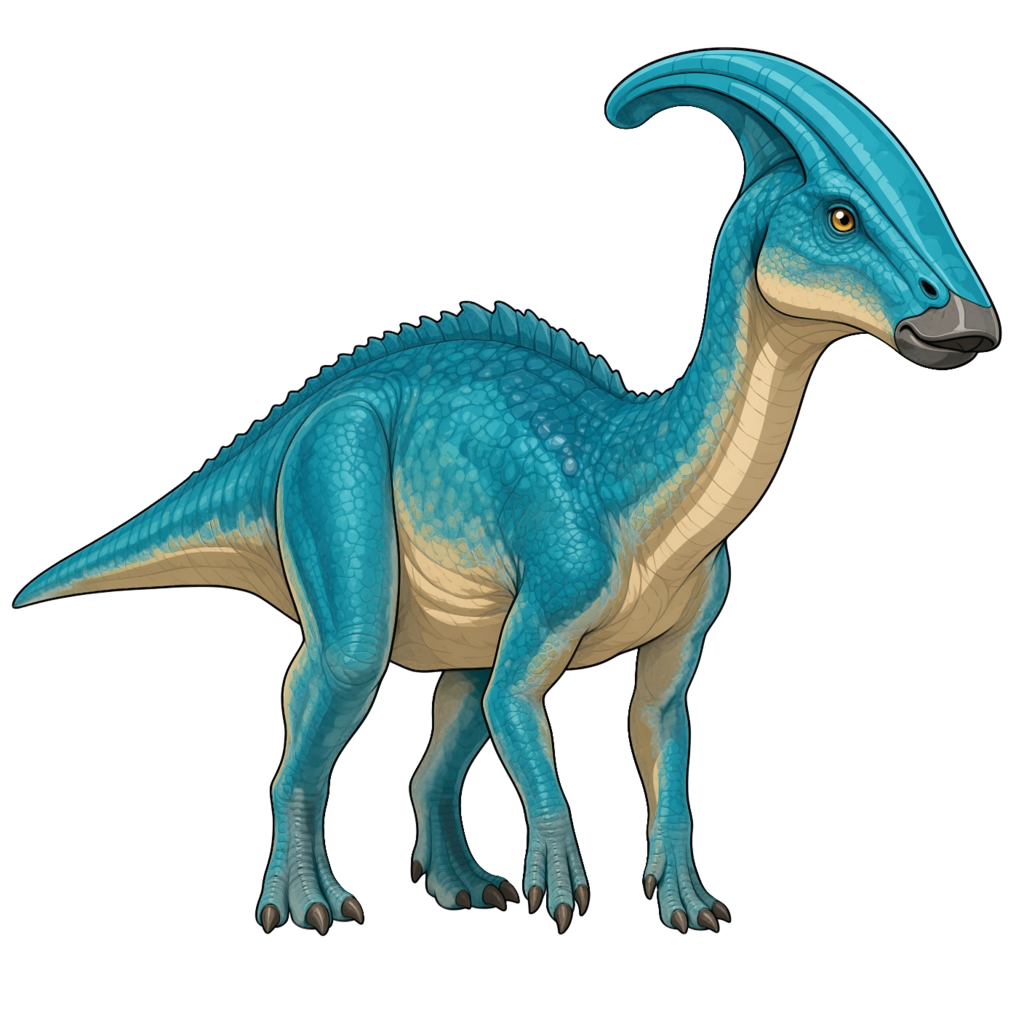
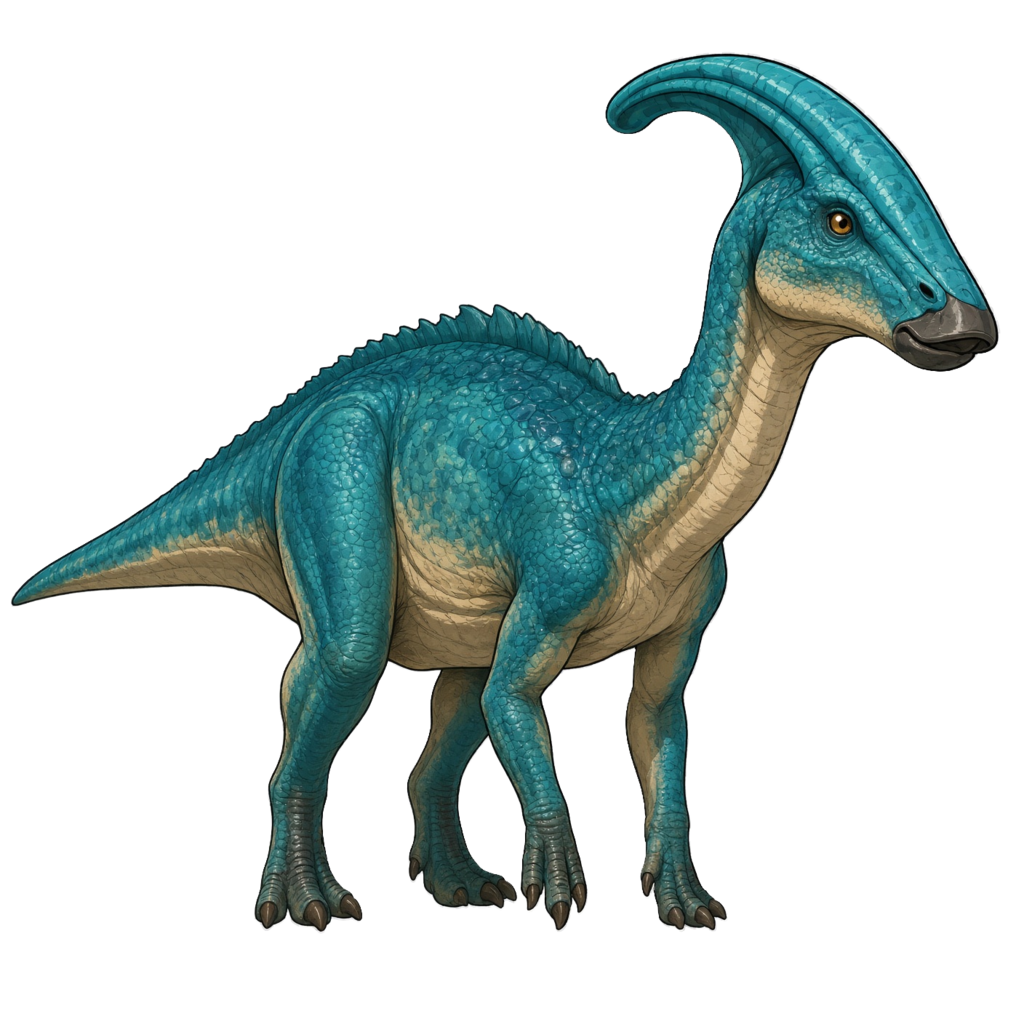
Scale dilo+raptor to 1024, add trike/ptera/rex, update COMPANION_IMAGES
- dilo_character.png: 1408→1024
- Raptor_Adult.png: 1408→1024
- Add trike_character.png, ptera_character.png, rex_character.png
- All 6 starter creatures now have unique images
- CampView COMPANION_IMAGES map updated

Changed region(s): [[0.0, 0.0312, 1.0, 0.9375]]

diff --git a/frontend/src/views/CampView.tsx b/frontend/src/views/CampView.tsx
@@ -39,10 +39,10 @@ const LIFE_STAGE_LABELS: Record<string, string> = {
 const COMPANION_IMAGES: Record<string, string> = {
   parasaur: '/assets/Creatures/parasaur_character.png',
   dilo: '/assets/Creatures/dilo_character.png',
-  trike: '/assets/Creatures/Raptor_Adult.png',
-  ptera: '/assets/Creatures/Raptor_Adult.png',
+  trike: '/assets/Creatures/trike_character.png',
+  ptera: '/assets/Creatures/ptera_character.png',
   raptor: '/assets/Creatures/Raptor_Adult.png',
-  rex: '/assets/Creatures/Raptor_Adult.png',
+  rex: '/assets/Creatures/rex_character.png',
 };
 
 function CareMeter({ label, value, color }: { label: string; value: number; color: string }) {
